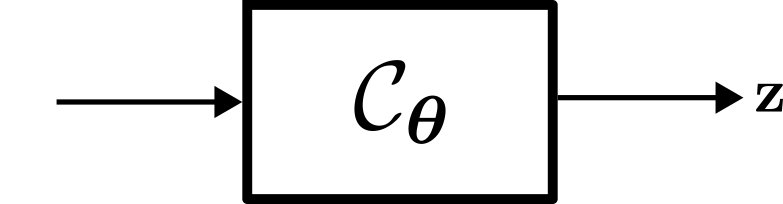
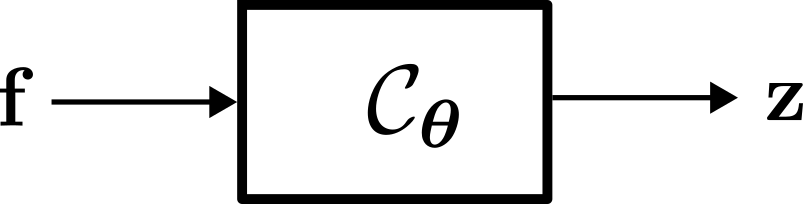
Continue work on CC tutorial

diff --git a/content/tutorials/tutorial/channelcharting/index.html b/content/tutorials/tutorial/channelcharting/index.html
@@ -98,22 +98,24 @@ layout: tutorial-details
 		</div>
 	</div>
 
-	<h2 class="text-center my-4" style="font-weight: bold;">The CSI Dataset</h2>
+	<h2 class="text-center my-4" style="font-weight: bold;">Downloading and Reading the CSI Dataset</h2>
 	<p>
 		For this tutorial, we use the <a href="/datasets/data/dichasus-cf0x/"><code class="nohighlight">dichasus-cf0x</code></a> dataset collected by DICHASUS.
 		This dataset contains CSI for \(B = 32\) receive antennas and for  \(W = 1024\) OFDM subcarriers at \( N \) different transmitter positions.
+		The transmitter is mounted on top of a robot, which follows some trajectory through the measurement area.
 		The CSI at a particular time instant can be expressed as a matrix \(\mathbf H_n \in \mathbb C^{B \times W}\).
-		The dataset is made up of data points that are 3-tuples of channel coefficients \( \mathbf{H}_{n} \in \mathbb C^{B \times W} \), UE positions \( \mathbf{x}_n \in \mathbb{R}^D \) and timestamps \( t_n \in \mathbb R \):
+		The dataset is made up of data points that are 3-tuples of channel coefficients \( \mathbf{H}_{n} \in \mathbb C^{B \times W} \), <i>ground truth</i>> positions \( \mathbf{x}_n \in \mathbb{R}^D \) and timestamps \( t_n \in \mathbb R \):
 		\[
 			\text{Dataset:} \quad \left\{ (\mathbf{H}_{n}, \mathbf x_n, t_n) \right\}_{n = 1, \ldots, N}
 		\]
+		The ground truth positons (which are really only for comparison, they are not used for training!) are measured with a tachymeter robotic total station, a very precise instrument that tracks the robot's antenna with a laser with at least centimeter-level accuracy.
 	</p>
 	<p>
 		DICHASUS uses a reference transmitter for synchronization, which entails that measured phases may exhibit constant offsets caused by the specific channel between reference transmitter and receive antenna.
 		Luckily, we computed these offsets for each DICHASUS dataset and made them available for download.
 		The datasets themselves are provided in the <a href="https://www.tensorflow.org/tutorials/load_data/tfrecord">TFRecords file format</a>, which makes loading them with TensorFlow particularly simple.
 		Obviously, the more training data we have, the better the channel chart gets.
-		To save some disk and RAM space, we will settle for just 3 robot round trips in the following: <code class="nohighlight">dichasus-cf02.tfrecords</code>, <code class="nohighlight">dichasus-cf03.tfrecords</code> and <code class="nohighlight">dichasus-cf04.tfrecords</code> and their phase offsets:
+		To save some disk and RAM space, we will settle for just 3 robot round trips in the following: <code class="nohighlight">dichasus-cf02.tfrecords</code>, <code class="nohighlight">dichasus-cf03.tfrecords</code> and <code class="nohighlight">dichasus-cf04.tfrecords</code>:
 		<pre class="m-0"><code class="language-bash">!mkdir dichasus
 !wget --content-disposition https://darus.uni-stuttgart.de/api/access/datafile/:persistentId?persistentId=doi:10.18419/darus-2854/8 -P dichasus # dichasus-cf02
 !wget --content-disposition https://darus.uni-stuttgart.de/api/access/datafile/:persistentId?persistentId=doi:10.18419/darus-2854/9 -P dichasus # dichasus-cf03
@@ -124,6 +126,7 @@ layout: tutorial-details
 	</p>
 	<p>
 		Next, we load the TFRecords files with TensorFlow and apply the offset compensation to the CSI as described in <a href="/tutorials/tutorial/calibration/">our offset compensation tutorial</a>.
+		To reduce the number of datapoints, we will only use every 4<sup>th</sup> datapoint for training and plotting (it is nevertheless important to load multiple robot round trips, since these provide diversity in the types of trajectories!).
 	</p>
 	<pre class="m-0"><code class="language-python">import matplotlib.pyplot as plt
 import tensorflow as tf
@@ -191,79 +194,68 @@ training_set = training_set.map(lambda idx, value : value)</code></pre>
 	<script>hljs.highlightAll();</script>
 
 	<h2 class="text-center my-4" style="font-weight: bold;">Feature Engineering</h2>
-	<p>
-		Furthermore, we apply a first pre-processing step by averaging each CSI vector over eight subcarriers in the center of the considered bandwidth as
-		\[
-			\mathbf{\overline{h}}=\frac{1}{8}\sum_{w=508}^{515}\mathbf{H}_{b,w} \in \mathbb{C}^{32}
-		\]
-	</p>
-	<p>
-		The main reason to perform feature engineering is to reduce the dimensionality of the CSI while keeping the large-scale fading characteristics of the channel.
-		Averaging over a certain subcarrier area has aleady been performed as a first step previously.
-		We further apply the method described in the <a href="https://ieeexplore.ieee.org/abstract/document/8444621">initial paper on channel charting</a> by computing the scaled raw second moment (R2M) of \(\mathbf{\overline{h}}\).
-		By only considering its real part, we obtain the feature vector \(\mathbf{f}_n \in \mathbb R^{B\times B}\).
-		The channel coefficients \(\mathbf H_n \in \mathbb C^{B \times W}\) are then replaced by the feature vectors \(\mathbf f_n \in \mathbb R^{B \times B}\) so the resulting dataset is built as
-		\[
-			\text{Dataset:} ~ \left\{ (\mathbf{f}_{n}, \mathbf x_n, t_n) \right\}_{n = 1, \ldots, N}
-		\]
-	</p>
-	<pre class="m-0"><code class="language-python">def average_over_subcarriers(csi, pos, time):
-	csi = tf.reduce_mean(csi[:, 508:516], axis=1)
+	<div class="row justify-content-center justify-content-md-start">
+		<div class="col-12 col-xl-6 p-3">
+			<pre class="m-0"><code class="language-python"># Average channel coefficients subcarriers 508 to 516
+def average_over_subcarriers(csi, pos, time):
+	csi = tf.reduce_mean(csi[:, 508:516], axis = 1)
 	return csi, pos, time
 
 training_set = training_set.map(average_over_subcarriers, num_parallel_calls = tf.data.AUTOTUNE)
 
-beta = 1 + 1 / 16
+# Compute real part of vectorized scaled raw 2nd-order moment
+def scaled_r2m(csi, pos, time):
+	beta = 1 + 1 / 16
 
-def scale_r2m(csi, pos, time):
-    second_moment = tf.tensordot(csi, tf.math.conj(csi), axes=0)
-    csi = tf.constant(ANTENNACOUNT**(beta - 1), dtype = tf.complex64) / tf.math.pow(tf.norm(second_moment, ord = "fro", axis = (0, 1)), beta) * second_moment
-    csi = tf.squeeze(tf.reshape(csi, (1, ANTENNACOUNT * ANTENNACOUNT)), axis = 0)
+	second_moment = tf.tensordot(csi, tf.math.conj(csi), axes = 0)
+	csi = tf.constant(ANTENNACOUNT**(beta - 1), dtype = tf.complex64) / tf.math.pow(tf.norm(second_moment, ord = "fro", axis = (0, 1)), beta) * second_moment
+	csi = tf.squeeze(tf.reshape(csi, (1, ANTENNACOUNT * ANTENNACOUNT)), axis = 0)
 
-    return csi, pos, time
+	return csi, pos, time
 
-training_set = training_set.map(scale_r2m, num_parallel_calls = tf.data.AUTOTUNE)
+training_set = training_set.map(scaled_r2m, num_parallel_calls = tf.data.AUTOTUNE)</code></pre>
+		</div>
+		<div class="col-12 col-xl-6 p-3">
+			<p>
+				We apply a first pre-processing step by averaging each CSI vector over eight subcarriers in the center of the considered bandwidth as
+				\[
+					\mathbf{\overline{h}}_n = \frac{1}{8}\sum_{w=508}^{515} \left[\mathbf{H}_{n}\right]_{b, w} \in \mathbb{C}^{32}
+				\]
+			</p>
+			<p>
+				The reason for this is to reduce the dimensionality of the CSI while keeping the large-scale fading characteristics of the channel.
+				We do lose some information here (most notably, antenna-specific time delays), so feel free to improve this step if you have good hardware accelerators for training.
+				We further apply a method described in the <a href="https://ieeexplore.ieee.org/abstract/document/8444621">initial paper on channel charting</a>, namely we compute the <i>scaled raw second moment (R2M)</i>
+				\[
+					\mathbf f_n = \mathrm{Re} \left\{ \mathrm{vec} \left\{ \frac{B^{\beta - 1}}{\left\lVert \mathbf{\overline{h}}_n ~ \mathbf{\overline{h}}_n^\mathrm{H} \right\rVert^\beta_\mathrm{F}} ~~ \mathbf{\overline{h}}_n ~ \mathbf{\overline{h}}_n^\mathrm{H} \right\} \right\}.
+				\]
+				By vectorization and only considering its real part (again, we are losing information here, space for improvement!), we obtain the feature vector \(\mathbf{f}_n \in \mathbb R^{B^2}\), which we use for training.
+				After feature engineering, our training dataset looks as follows:
+				\[
+					\text{Dataset:} ~~~ \left\{ (\mathbf{f}_{n}, \mathbf x_n, t_n) \right\}_{n = 1, \ldots, N}
+				\]
+			</p>
+		</div>
+	</div>
 
-# If you have enough RAM...
+	<p>
+		At this point, if your RAM is large enough for all TFRecords to fit inside, it might be a good idea to cache the training set so that all the subsequent training and evaluation steps will be quicker.
+		If your RAM is small (or you want to train on really huge training sets), don't worry:
+		The datasets can also remain on disk storage, and the training code will load batches of triplets from there when needed.
+		<pre class="m-0"><code class="language-python"># If you have enough RAM...
 training_set = training_set.cache()</code></pre>
-
-	<h2 class="text-center my-4" style="font-weight: bold;">Triplet-based dimensionality reduction</h2>
-
-	<p>
-		As we have loaded and applied feature engineering to our CSI dataset, we are now ready for the most important part of channel charting: the dimensionality reduction algorithm.
-		Keeping in mind that this works self-supervised, we pretend that we don't know the ground truth positions.
-		However, the channel chart is intended to maintain the local geometry of the UE positions, i.e. any two positions \(\mathbf{x},\mathbf{x'} \in \mathbb{R}^D\) that are close to each other should also be close to each other in the channel chart, with \(\mathbf{z},\mathbf{z'} \in \mathbb{R}^{D'}\) being the corresponding points in the channel chart.
-		Therefore, the condition
-		\[
-			d_z\left(\mathbf{z},\mathbf{z'}\right) \approx d_x\left(\mathbf{x},\mathbf{x'}\right)
-		\]
-		should be satisfied for any neighboring data points, with \(d\left(\cdot,\cdot\right)\) being an appropriately defined dissimilarity measure.
-		Finding such a dissimilarity measure is not trivial, as the Euclidean distance is a poor representation for high-dimensional data.
-		This problem is elegantly circumvented by the triplet-based dimensionality reduction technique, which takes timestamps as side information into account.
-		Its principle is simple: Triplets of CSI samples are selected based on their timestamps.
-		Each triplet consists of a randomly selected anchor point and a positive sample which is closer to the anchor point than a third sample, which is called the negative sample.
-		These triplets can be processed by a special neural-network-structure called "Triplet Network".
-		The "Triplet Loss" ensures that the positive sample is closer to the anchor than the negative sample as well in the channel chart.
 	</p>
 
-	<h4 class="text-center my-4" style="font-weight: bold;">How do we select triplets?</h4>
+	<h2 class="text-center my-4" style="font-weight: bold;">Visualizing the Dataset</h2>
 	<p>
-		For training, we need to create a large set of triplets \(\left(i,j,k\right)\in \mathcal{T}\).
-		Ideally, these triplets would be selected such that
-		\[
-		\lVert \mathbf{x}_\mathrm{i} - \mathbf{x}_\mathrm{j} \rVert \leq \lVert \mathbf{x}_\mathrm{i} - \mathbf{x}_\mathrm{k} \rVert.
-		\]
-		However, this is not possible for us because we have no ground truth positions on which we can rely on.
-		Since the user travels with a finite velocity, we can assume that two CSI vectors measured within a short timeframe are likely to be close to each other.
-		Therefore we select the triplets based on their timestamps such that
-		\[
-			\mathcal{T}=\{\left(i,j,k\right):0<|t_j-t_i|\leq T_c\},
-		\]
-		with \(T_c\) being the timespan to the anchor point within the positive sample is selected.
-		The particular implementation is shown in the following.
+		Now that we have loaded the TFRecords dataset and applied some feature engineering stages, let's have a look at what the dataset actually looks like.
+		For this, we plot the afforementioned <i>ground truth</i> positions.
+		Additionally, we store a mapping from datapoint timestamp to the index in the dataset in a Python dictionary called <code class="language-python">timestamp_index_map</code> and sort this dictionary by timestamp (the dataset is not guaranteed to be sorted in any way!).
+		The purpose of this list will become apparent later on.
 	</p>
 	<p>
-		At first we load the timestamps and ground truth positions, where we sort the indices of the datapoints according to their timestamps.
+		Running this code segment may take a lot of time - this is because all of the previous code segments only added processing steps to TensorFlow's compute graph.
+		It is only in the following processing step, that the datapoints are actually read from disk and feature engineering is applied.
 	</p>
 	<pre class="m-0"><code class="language-python"># This may take a long time, since TensorFlow has to load the dataset from disk!
 groundtruth_positions = []
@@ -277,9 +269,9 @@ timestamp_index_map = dict(sorted(timestamp_index_map.items()))
 groundtruth_positions = np.asarray(groundtruth_positions)</code></pre>
 
 <p>
-	At this point, we are also able to plot the ground truth positions of the training set.
-	To this end, we wrote a plot-function which colorizes the area of the ground truth positions unambiguously.
-	Later, we can reuse this function to plot the channel chart with the same colorization.
+	We use the <code>plot_colorized</code> function to plot the ground truth positions.
+	It produces a scatter plot, where each point in the scatter plot is assigned a color according to its ground truth position.
+	We can later reuse this function to plot the channel chart with the same colorization.
 </p>
 
 <div class="row justify-content-center justify-content-md-start">
@@ -307,6 +299,42 @@ plot_data(groundtruth_positions, title="Ground Truth Positions")</code></pre>
 		<img style="width: 120%;" src="ground_truth.png">
 	</div>
 </div>
+
+	<h2 class="text-center my-4" style="font-weight: bold;">Triplet-Based Dimensionality Reduction</h2>
+
+	<p>
+		Now that we have loaded our CSI datasets and applied feature engineering, we are ready for the most important part of channel charting: the dimensionality reduction algorithm.
+		Keeping in mind that Channel Charting is a self-supervised training method, we need to pretend that we don't know the ground truth positions.
+		The channel chart should maintain the local geometry of the transmitter positions, i.e., any two positions \( \mathbf{x}, \mathbf{x'} \in \mathbb{R}^D \) that are close to each other in the real world should also be close to each other in the channel chart, with \( \mathbf{z}, \mathbf{z'} \in \mathbb{R}^{D'} \) being the corresponding points in the channel chart.
+		In other words, the condition
+		\[
+			\mathrm d_\mathrm{z} \left( \mathbf{z}, \mathbf{z'} \right) \approx \mathrm d_\mathrm{x} \left( \mathbf{x}, \mathbf{x'} \right)
+		\]
+		should be satisfied for any neighboring data points, with \( \mathrm d_\mathrm{z} \left( \cdot, \cdot \right) \) and \( \mathrm d_\mathrm{x} \left( \cdot, \cdot \right) \) being appropriately defined dissimilarity measures.
+		Finding such a dissimilarity measure is not trivial, as the Euclidean distance is a poor representation for high-dimensional data.
+		This problem is elegantly circumvented by the triplet-based dimensionality reduction technique, which takes timestamps as side information into account.
+		Its principle is simple: Triplets of CSI samples are selected based on their timestamps.
+		Each triplet consists of a randomly selected anchor point and a positive sample which is closer to the anchor point than a third sample, which is called the negative sample.
+		These triplets can be processed by a special neural-network-structure called "Triplet Network".
+		The "Triplet Loss" ensures that the positive sample is closer to the anchor than the negative sample as well in the channel chart.
+	</p>
+
+	<h4 class="text-center my-4" style="font-weight: bold;">How to select triplets?</h4>
+	<p>
+		For training, we need to create a large set of triplets \(\left(i,j,k\right)\in \mathcal{T}\).
+		Ideally, these triplets would be selected such that
+		\[
+		\lVert \mathbf{x}_\mathrm{i} - \mathbf{x}_\mathrm{j} \rVert \leq \lVert \mathbf{x}_\mathrm{i} - \mathbf{x}_\mathrm{k} \rVert.
+		\]
+		However, this is not possible for us because we have no ground truth positions on which we can rely on.
+		Since the user travels with a finite velocity, we can assume that two CSI vectors measured within a short timeframe are likely to be close to each other.
+		Therefore we select the triplets based on their timestamps such that
+		\[
+			\mathcal{T}=\{\left(i,j,k\right):0<|t_j-t_i|\leq T_c\},
+		\]
+		with \(T_c\) being the timespan to the anchor point within the positive sample is selected.
+		The particular implementation is shown in the following.
+	</p>
 
 	<p>
 		Then, we generate a lookup table which links feasible positive samples for each anchor point in the dataset.
@@ -611,6 +639,13 @@ print("CT: {} \nTW: {} \nKS: {}".format(*metrics_channel_chart_train))</code></p
 	In my experience, Channel Charting researchers are very aware of the potential privacy implications.
 	There are some very obvious benefits attached to Channel Charting (outlined in the introduction), but there is also potential for abuse.
 	With all the skepticism about 5G and mobile networks in general, we believe it is important to transparently publish and discuss the advantages and risks of this technology.
+</p>
+
+<h4 class="text-center my-4" style="font-weight: bold;">Licensing and Authors</h4>
+<p>
+	All our datasets are licensed under the <a href="https://creativecommons.org/licenses/by/2.0/">CC-BY license</a>, i.e., you are free to use them for whatever you like as long as you reference us in your publications.
+	All code in this tutorial is <a href="https://creativecommons.org/publicdomain/zero/1.0/">CC0-licensed</a>.
+	This tutorial was written jointly by <a href="mailto:phillip.stephan@inue.uni-stuttgart.de">Phillip Stephan</a> and <a href="mailto:florian.euchner@inue.uni-stuttgart.de">Florian Euchner</a>.
 </p>
 
 </main>
